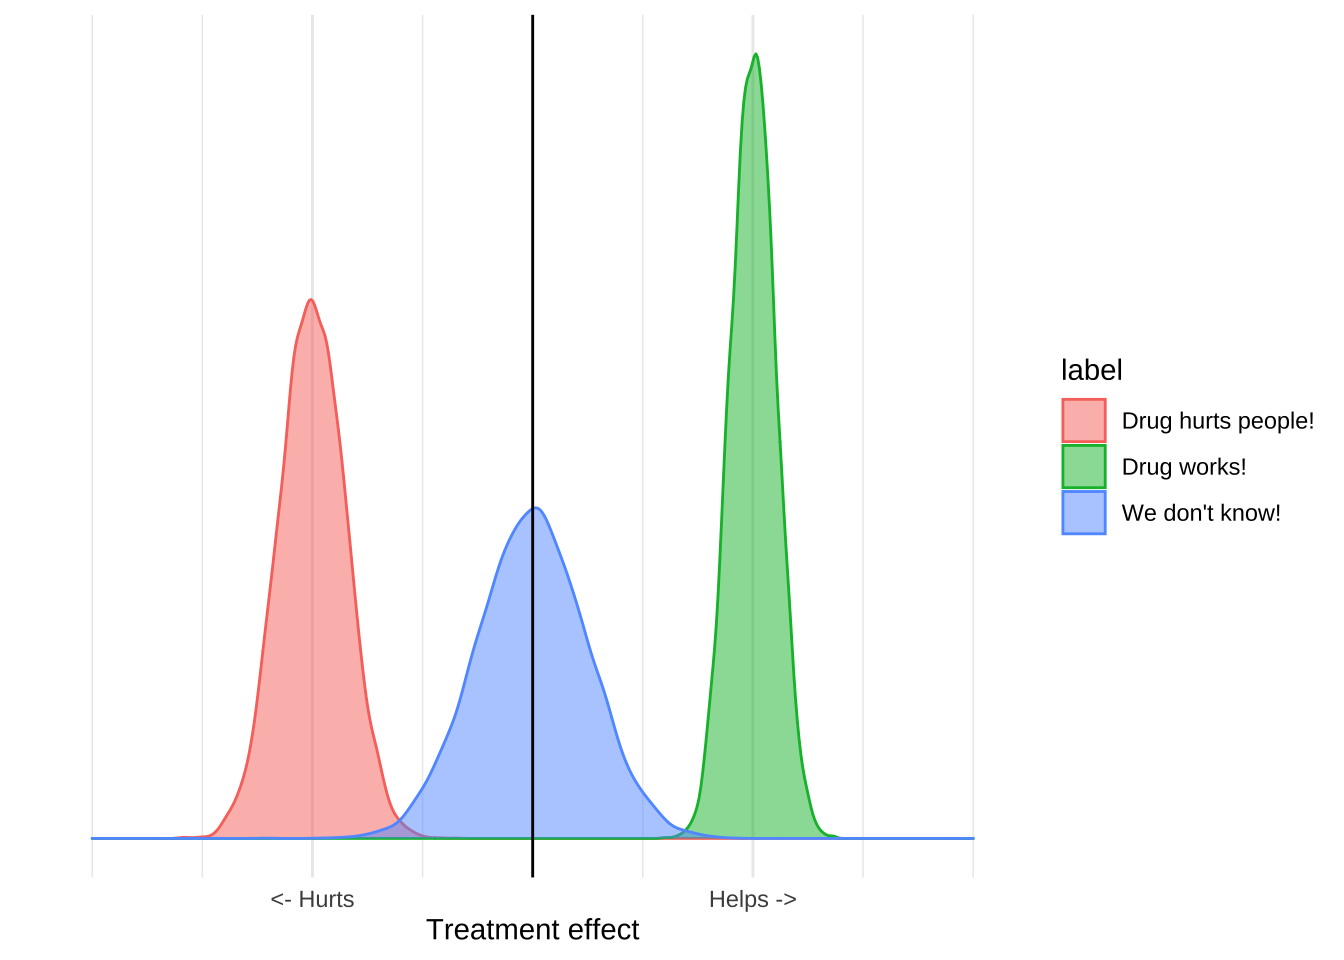
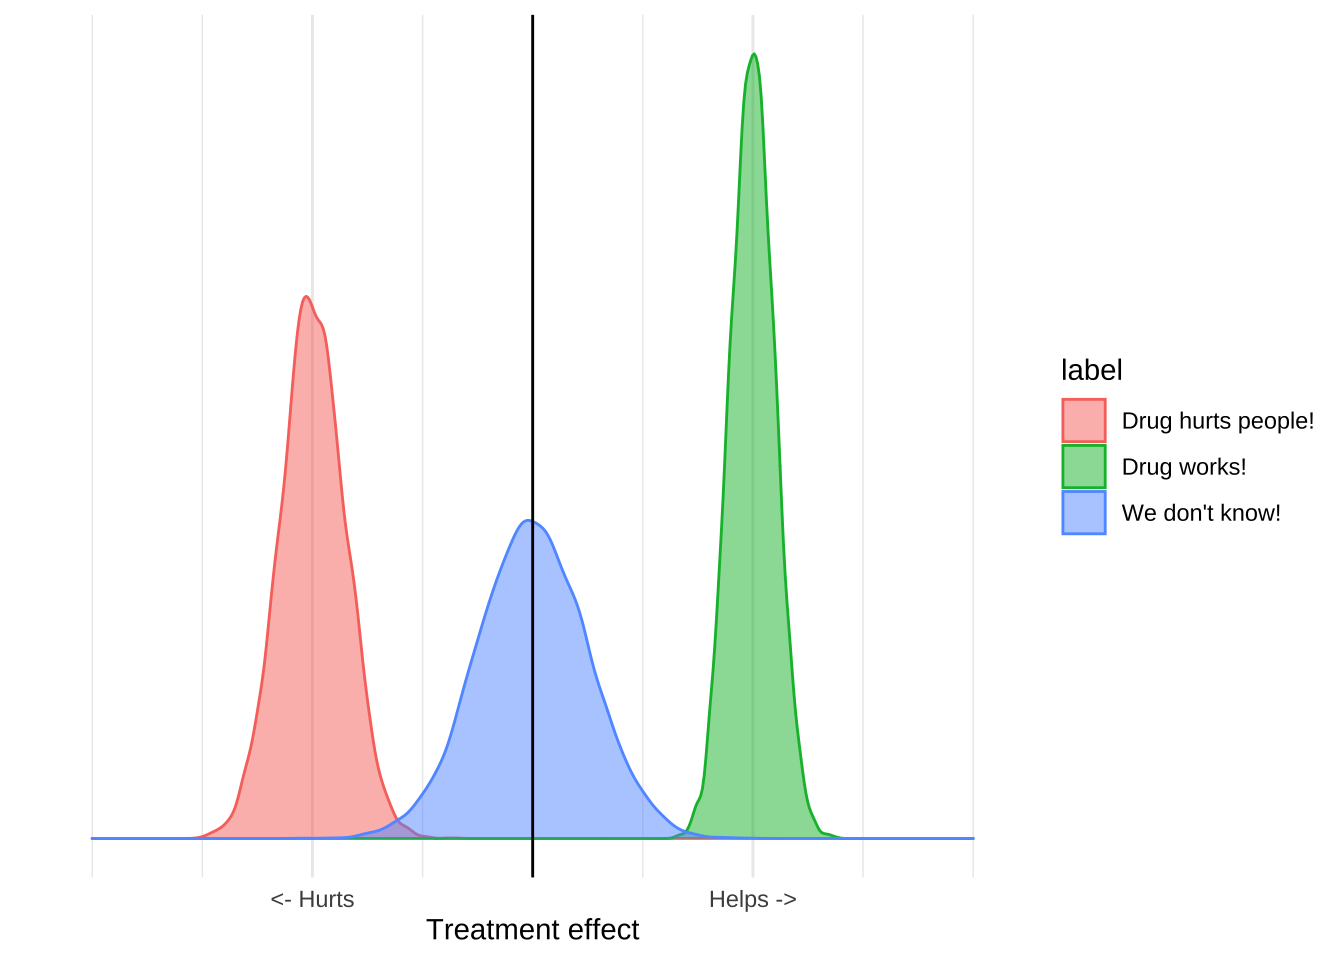
Re-index

diff --git a/public/posts/good-decisions-bad-data/index.html b/public/posts/good-decisions-bad-data/index.html
@@ -221,7 +221,7 @@ Observational or ecological data can’t do this effectively so the true distrib
 An observational study might report a highly significant result, but because there are lots of potential causal mechanisms which are not controlled for it’s a poor estimate of what’s actually going on in the world.
 The result of these confounders is the numbers reported by the study will usually be overly precise.
 The true distribution of effects is much larger than that reported by the study.</p>
-<pre><code>## Warning: Removed 133 rows containing non-finite values (stat_density).</code></pre>
+<pre><code>## Warning: Removed 115 rows containing non-finite values (stat_density).</code></pre>
 <p><img src="/posts/good-decisions-bad-data_files/figure-html/unnamed-chunk-3-1.png" width="672" /></p>
 <p>The important thing is that all evidence whether it be experimental, observational, or ecological has this problem.
 What generally makes randomized trials “good” and ecological trials “bad” is that for clinical trials the real distribution will be close to the reported distribution, while for ecological study it will be much wider.

diff --git a/content/posts/good-decisions-bad-data.html b/content/posts/good-decisions-bad-data.html
@@ -41,7 +41,7 @@ Observational or ecological data can’t do this effectively so the true distrib
 An observational study might report a highly significant result, but because there are lots of potential causal mechanisms which are not controlled for it’s a poor estimate of what’s actually going on in the world.
 The result of these confounders is the numbers reported by the study will usually be overly precise.
 The true distribution of effects is much larger than that reported by the study.</p>
-<pre><code>## Warning: Removed 133 rows containing non-finite values (stat_density).</code></pre>
+<pre><code>## Warning: Removed 115 rows containing non-finite values (stat_density).</code></pre>
 <p><img src="/posts/good-decisions-bad-data_files/figure-html/unnamed-chunk-3-1.png" width="672" /></p>
 <p>The important thing is that all evidence whether it be experimental, observational, or ecological has this problem.
 What generally makes randomized trials “good” and ecological trials “bad” is that for clinical trials the real distribution will be close to the reported distribution, while for ecological study it will be much wider.
